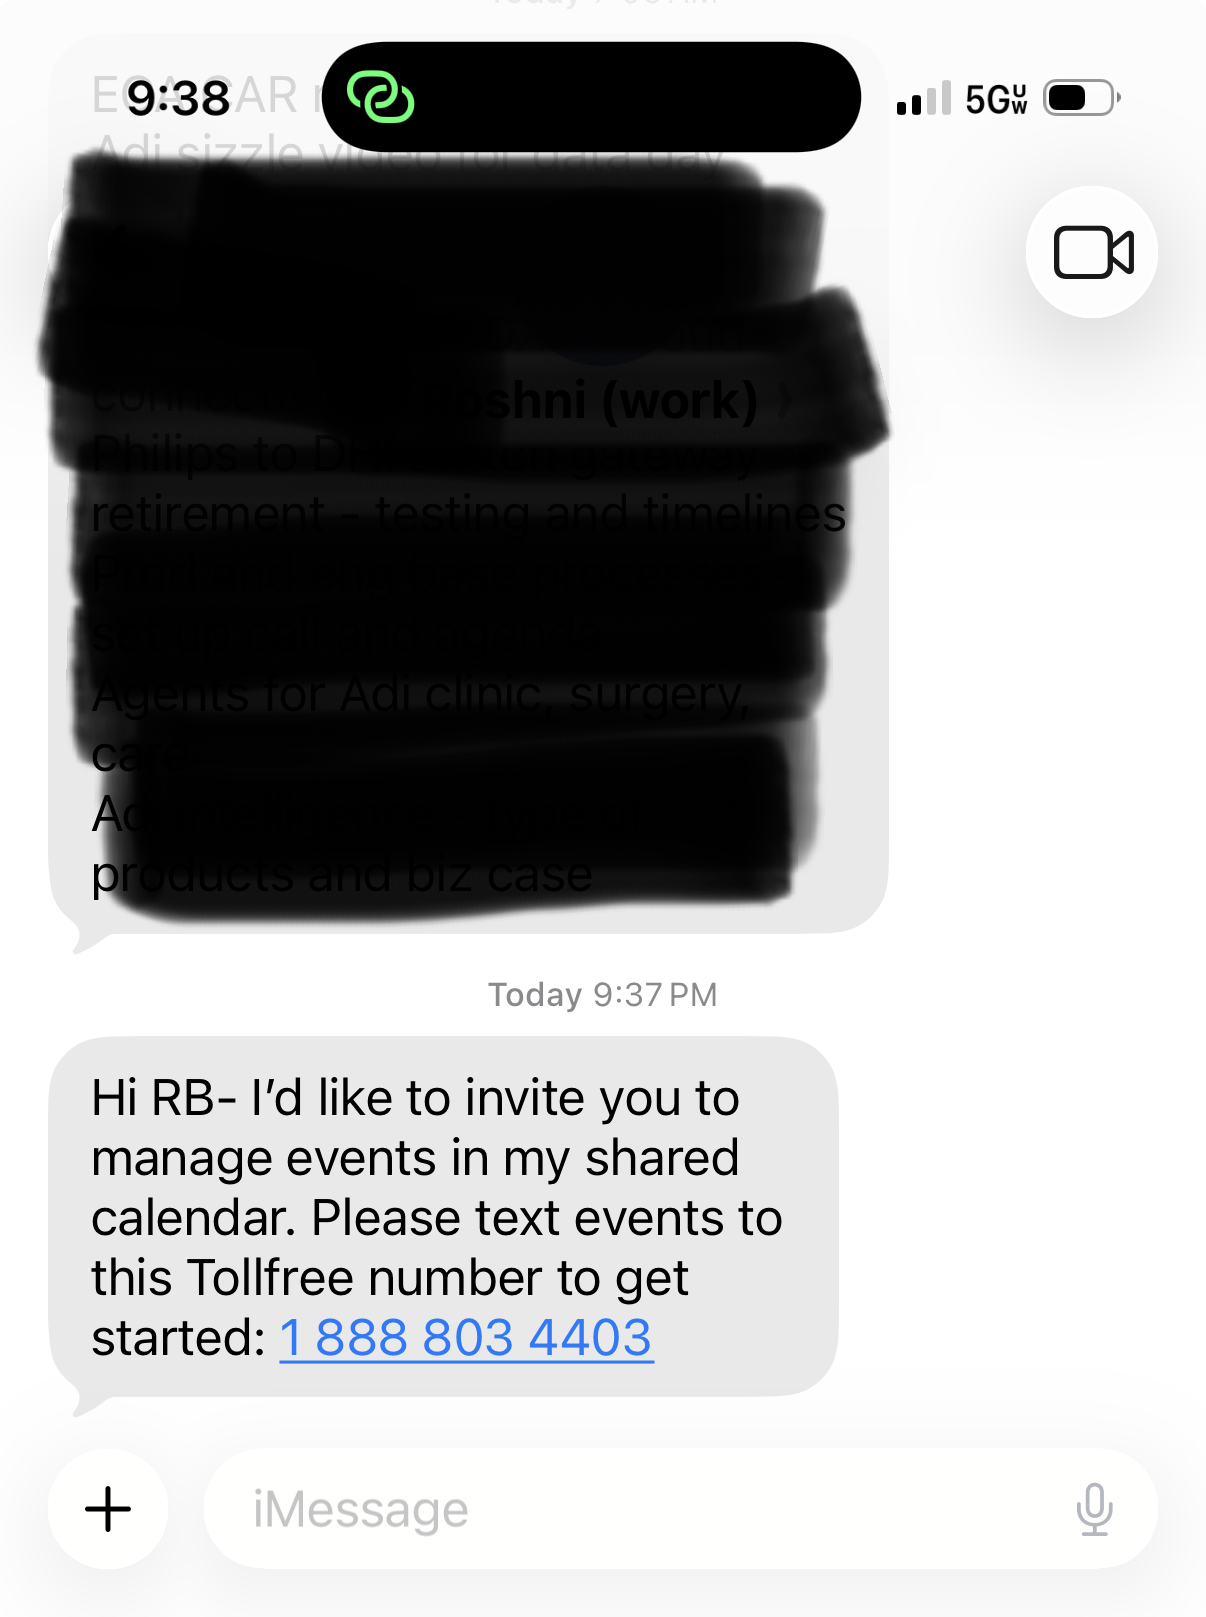
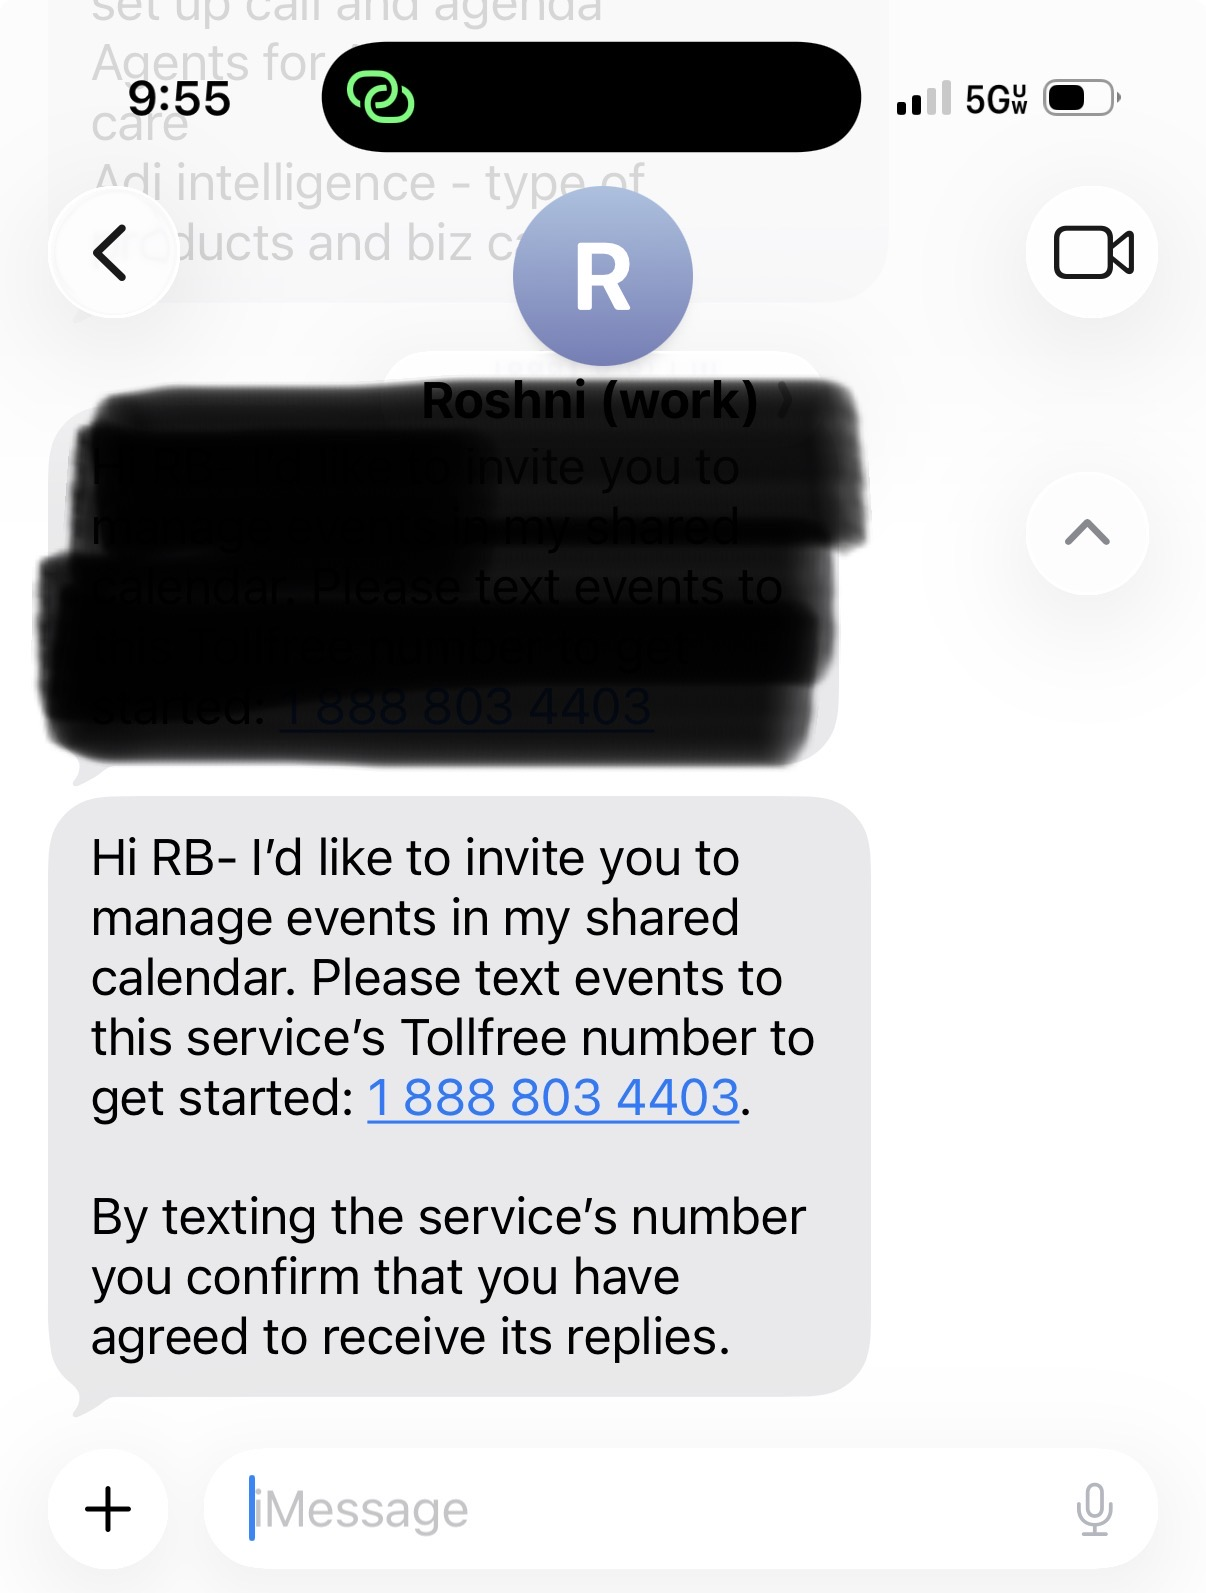
Updated opt in image and added to index.html

diff --git a/index.html b/index.html
@@ -46,8 +46,7 @@
   You are added only after you agree. By texting the service's number you confirm you have agreed to
   receive its replies.
 </p>
-<!-- Add a screenshot of the invitation/opt-in message here, hosted in this same repo, e.g.:
-     <img src="opt-in-invite.png" alt="Example invitation message the owner sends before adding someone" style="max-width:100%"> -->
+  <img src="opt-in-invite.png" alt="Example invitation message the owner sends before adding someone" style="max-width:100%">
 
 <h2>What messages you will receive</h2>
 <p>
